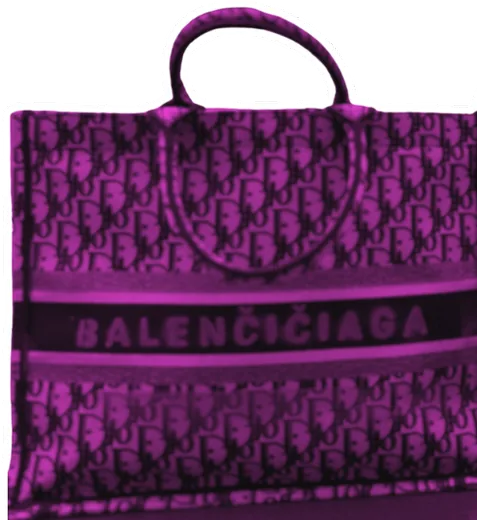
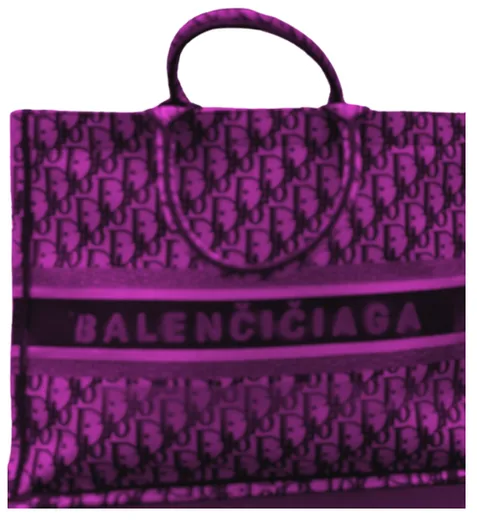
ČAF: doplněné bílé obrysy u výřezů, nová fotka Kristýny u zahájení a nová Miss Petty
- výřezy uříznuté okrajem fotky dostaly bílý lem i po té hraně
- 16:20 druhá fotka Podrážděné číči místo opakované
- panelovka: „za tebe vyzpovídá“

diff --git a/cica-art-fest/index.html b/cica-art-fest/index.html
@@ -1058,7 +1058,7 @@
                                 <button class="tl-head" type="button" aria-expanded="false" aria-controls="p-brany-body">
                                     <span class="tl-title">Otevíráme brány parku</span>
                                     <span class="tl-more"><span class="tl-more-open">Ukaž víc</span><span class="tl-more-close">Schovej</span></span>
-                                    <span class="tl-figure"><img src="/images/performeri/program/welcome-drink-stary-vrch.webp" alt="Welcome drink: frizzante Starý vrch" loading="lazy" width="477" height="520"></span>
+                                    <span class="tl-figure"><img src="/images/performeri/program/welcome-drink-stary-vrch.webp" alt="Welcome drink: frizzante Starý vrch" loading="lazy" width="487" height="520"></span>
                                 </button>
                             </h3>
                             <div class="tl-body" id="p-brany-body"><div><div class="tl-body-inner">
@@ -1071,7 +1071,7 @@
                                 <button class="tl-head" type="button" aria-expanded="false" aria-controls="p-breberka-body">
                                     <span class="tl-title"><em>Breberka Tattoo</em> otevírá tetovací studio</span>
                                     <span class="tl-more"><span class="tl-more-open">Ukaž víc</span><span class="tl-more-close">Schovej</span></span>
-                                    <span class="tl-figure"><img src="/images/performeri/program/breberkatattoo.webp" alt="Breberka Tattoo, tatérka" loading="lazy" width="520" height="444"></span>
+                                    <span class="tl-figure"><img src="/images/performeri/program/breberkatattoo.webp" alt="Breberka Tattoo, tatérka" loading="lazy" width="520" height="450"></span>
                                 </button>
                             </h3>
                             <div class="tl-body" id="p-breberka-body"><div><div class="tl-body-inner">
@@ -1085,7 +1085,7 @@
                                 <button class="tl-head" type="button" aria-expanded="false" aria-controls="p-luci-body">
                                     <span class="tl-title">Začíná hrát DJka <em>Luci Jacuzzi</em></span>
                                     <span class="tl-more"><span class="tl-more-open">Ukaž víc</span><span class="tl-more-close">Schovej</span></span>
-                                    <span class="tl-figure"><img src="/images/performeri/program/lucijacuzzi.webp" alt="DJka Luci Jacuzzi" loading="lazy" width="398" height="520"></span>
+                                    <span class="tl-figure"><img src="/images/performeri/program/lucijacuzzi.webp" alt="DJka Luci Jacuzzi" loading="lazy" width="406" height="520"></span>
                                 </button>
                             </h3>
                             <div class="tl-body" id="p-luci-body"><div><div class="tl-body-inner">
@@ -1105,7 +1105,7 @@
                                 <button class="tl-head" type="button" aria-expanded="false" aria-controls="p-vernisaz-body">
                                     <span class="tl-title">Komentovaná vernisáž série obrazů <em>Královny Brno-venkov</em></span>
                                     <span class="tl-more"><span class="tl-more-open">Ukaž víc</span><span class="tl-more-close">Schovej</span></span>
-                                    <span class="tl-figure"><img src="/images/performeri/program/podrazdena-cica.webp" alt="Kristýna Mlynář Koutná alias Podrážděná číča" loading="lazy" width="472" height="520"></span>
+                                    <span class="tl-figure"><img src="/images/performeri/program/podrazdena-cica.webp" alt="Kristýna Mlynář Koutná alias Podrážděná číča" loading="lazy" width="475" height="520"></span>
                                 </button>
                             </h3>
                             <div class="tl-body" id="p-vernisaz-body"><div><div class="tl-body-inner">
@@ -1128,7 +1128,7 @@
                                 <button class="tl-head" type="button" aria-expanded="false" aria-controls="p-zahajeni-body">
                                     <span class="tl-title">Začínáme. Držte si klobouky. A hůlky.</span>
                                     <span class="tl-more"><span class="tl-more-open">Ukaž víc</span><span class="tl-more-close">Schovej</span></span>
-                                    <span class="tl-figure tl-figure--multi"><img src="/images/performeri/program/tereza-bonaventurova.webp" alt="Tereza Bonaventurová" loading="lazy" width="387" height="520"><img src="/images/performeri/program/podrazdena-cica.webp" alt="Podrážděná číča" loading="lazy" width="472" height="520"></span>
+                                    <span class="tl-figure tl-figure--multi"><img src="/images/performeri/program/tereza-bonaventurova.webp" alt="Tereza Bonaventurová" loading="lazy" width="388" height="520"><img src="/images/performeri/program/podrazdena-cica-zahajeni-caf.webp" alt="Podrážděná číča" loading="lazy" width="340" height="520"></span>
                                 </button>
                             </h3>
                             <div class="tl-body" id="p-zahajeni-body"><div><div class="tl-body-inner">
@@ -1147,7 +1147,7 @@
                                 <button class="tl-head" type="button" aria-expanded="false" aria-controls="p-vazky-body">
                                     <span class="tl-title">Nastupuje <em>Hudební soubor Vážky</em></span>
                                     <span class="tl-more"><span class="tl-more-open">Ukaž víc</span><span class="tl-more-close">Schovej</span></span>
-                                    <span class="tl-figure"><img src="/images/performeri/program/hudebni-soubor-vazky.webp" alt="Hudební soubor Vážky" loading="lazy" width="520" height="443"></span>
+                                    <span class="tl-figure"><img src="/images/performeri/program/hudebni-soubor-vazky.webp" alt="Hudební soubor Vážky" loading="lazy" width="520" height="434"></span>
                                 </button>
                             </h3>
                             <div class="tl-body" id="p-vazky-body"><div><div class="tl-body-inner">
@@ -1166,11 +1166,11 @@
                                 <button class="tl-head" type="button" aria-expanded="false" aria-controls="p-panel-body">
                                     <span class="tl-title">Začíná panelová diskuze <em>Všechno je to v hlavě a v číči</em></span>
                                     <span class="tl-more"><span class="tl-more-open">Ukaž víc</span><span class="tl-more-close">Schovej</span></span>
-                                    <span class="tl-figure tl-figure--multi"><img src="/images/performeri/program/olinka-vlachynska.webp" alt="Olga Vlachynská" loading="lazy" width="301" height="520"><img src="/images/performeri/program/zuzana-krizova.webp" alt="Zuzana Křížová" loading="lazy" width="373" height="520"><img src="/images/performeri/program/hana-vackova.webp" alt="Hana Vacková" loading="lazy" width="445" height="520"></span>
+                                    <span class="tl-figure tl-figure--multi"><img src="/images/performeri/program/olinka-vlachynska.webp" alt="Olga Vlachynská" loading="lazy" width="300" height="520"><img src="/images/performeri/program/zuzana-krizova.webp" alt="Zuzana Křížová" loading="lazy" width="374" height="520"><img src="/images/performeri/program/hana-vackova.webp" alt="Hana Vacková" loading="lazy" width="441" height="520"></span>
                                 </button>
                             </h3>
                             <div class="tl-body" id="p-panel-body"><div><div class="tl-body-inner">
-                                <p>Podrážděná číča za vás vyzpovídá jedny z nejpovolanějších žen na psychologii a ženskou sexualitu. Bude to především diskuze o číči a problémech v našich hlavičičkách.</p>
+                                <p>Podrážděná číča za tebe vyzpovídá jedny z nejpovolanějších žen na psychologii a ženskou sexualitu. Bude to především diskuze o číči a problémech v našich hlavičičkách.</p>
                                 <div class="panel-people">
                                     <div class="panel-person">
                                         <img src="/images/performeri/panel-olga-vlachynska.webp"
@@ -1217,7 +1217,7 @@
                                 <button class="tl-head" type="button" aria-expanded="false" aria-controls="p-tereza-body">
                                     <span class="tl-title">Přichází vrchní standup komičička <em>Tereza Bonaventurová</em></span>
                                     <span class="tl-more"><span class="tl-more-open">Ukaž víc</span><span class="tl-more-close">Schovej</span></span>
-                                    <span class="tl-figure"><img src="/images/performeri/program/tereza-bonaventurova.webp" alt="Tereza Bonaventurová, stand-up komička" loading="lazy" width="387" height="520"></span>
+                                    <span class="tl-figure"><img src="/images/performeri/program/tereza-bonaventurova.webp" alt="Tereza Bonaventurová, stand-up komička" loading="lazy" width="388" height="520"></span>
                                 </button>
                             </h3>
                             <div class="tl-body" id="p-tereza-body"><div><div class="tl-body-inner">
@@ -1237,7 +1237,7 @@
                                 <button class="tl-head" type="button" aria-expanded="false" aria-controls="p-krupicafaja-body">
                                     <span class="tl-title"><em>Krupicafaja</em> zandává lidové rap</span>
                                     <span class="tl-more"><span class="tl-more-open">Ukaž víc</span><span class="tl-more-close">Schovej</span></span>
-                                    <span class="tl-figure"><img src="/images/performeri/program/krupicafaja.webp" alt="Krupicafaja, valašská lidová rapperka" loading="lazy" width="340" height="520"></span>
+                                    <span class="tl-figure"><img src="/images/performeri/program/krupicafaja.webp" alt="Krupicafaja, valašská lidová rapperka" loading="lazy" width="347" height="520"></span>
                                 </button>
                             </h3>
                             <div class="tl-body" id="p-krupicafaja-body"><div><div class="tl-body-inner">
@@ -1296,7 +1296,7 @@
                                 <button class="tl-head" type="button" aria-expanded="false" aria-controls="p-petty-body">
                                     <span class="tl-title">Přichází tomu nasadit korunku drag queen <em>Miss Petty</em></span>
                                     <span class="tl-more"><span class="tl-more-open">Ukaž víc</span><span class="tl-more-close">Schovej</span></span>
-                                    <span class="tl-figure"><img src="/images/performeri/program/miss-petty.webp" alt="Miss Petty, drag queen a zpěvačka" loading="lazy" width="392" height="520"></span>
+                                    <span class="tl-figure"><img src="/images/performeri/program/miss-petty.webp" alt="Miss Petty, drag queen a zpěvačka" loading="lazy" width="314" height="520"></span>
                                 </button>
                             </h3>
                             <div class="tl-body" id="p-petty-body"><div><div class="tl-body-inner">
